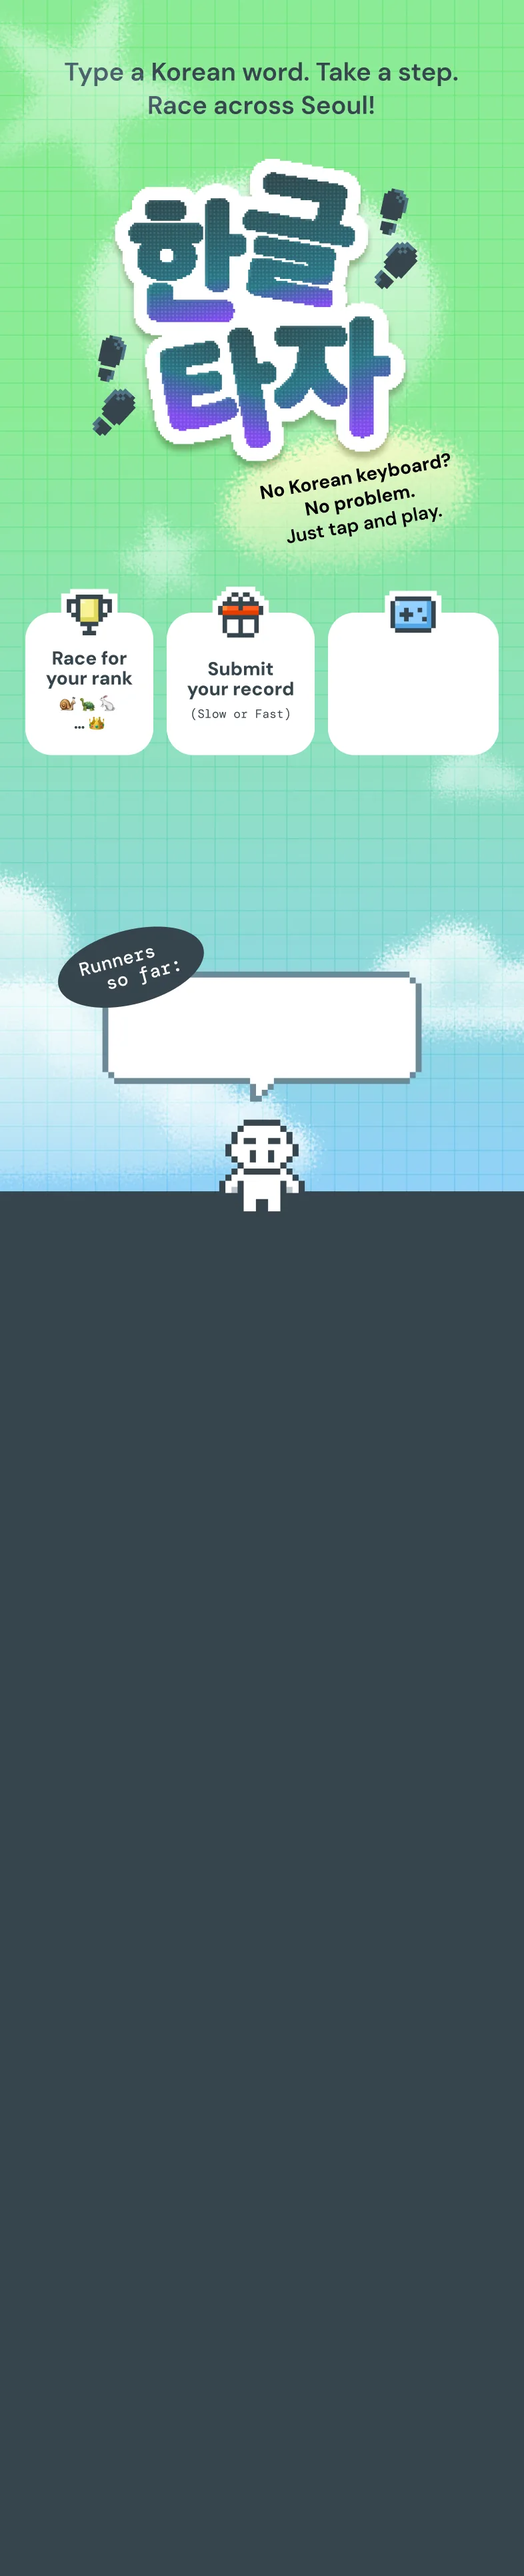
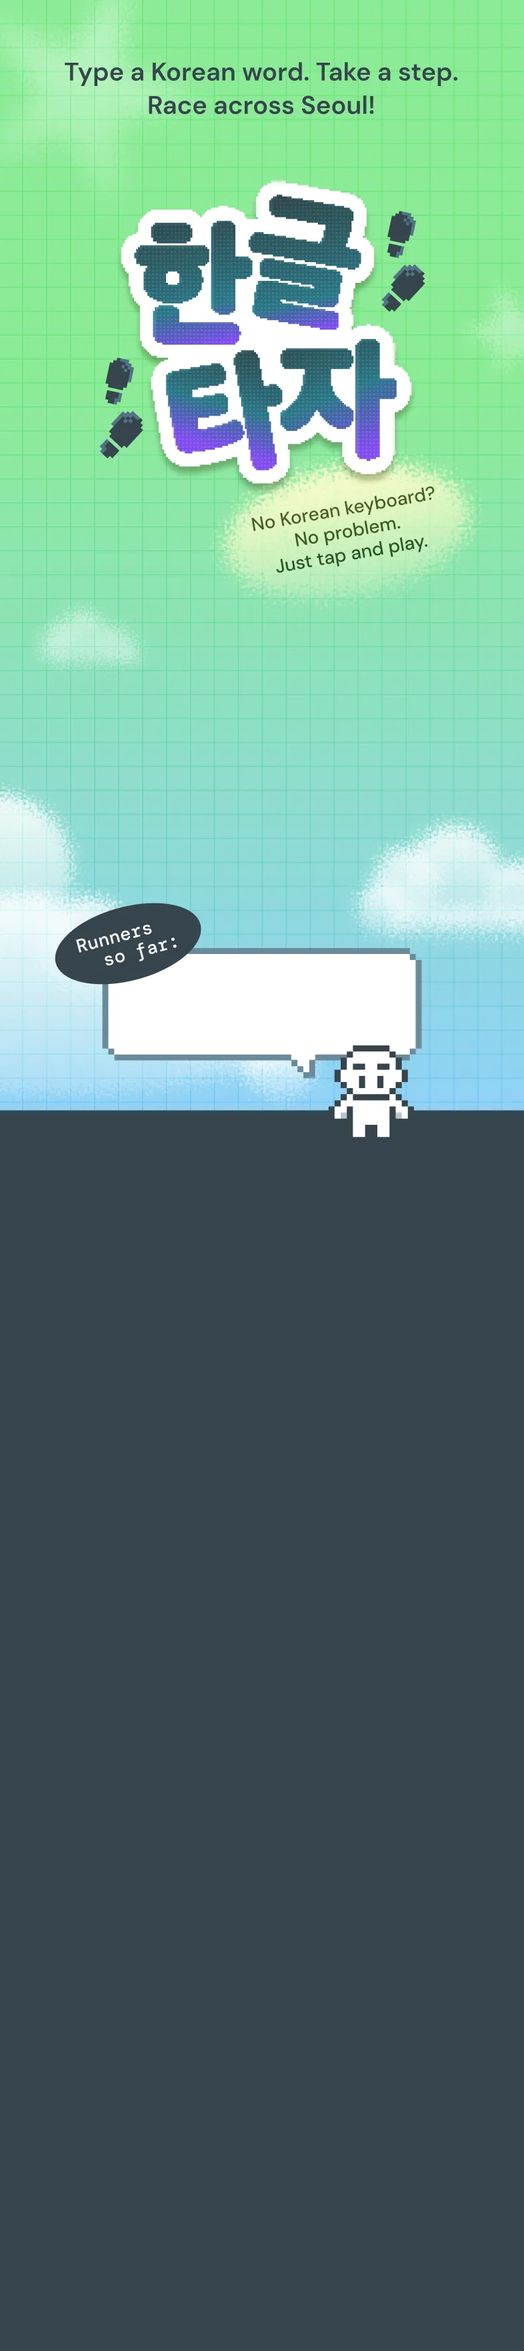
feat: 홈 화면을 새 이벤트 시안으로 (1220:24828)
배경 아트를 새로 받은 것으로 갈고, 그 위에 얹는 요소를 새 구성에 맞춘다.

- 히어로 높이 892.58 → 832.158. 특징 카드 3개가 빠지면서 시안이 짧아졌다.
- Play Now(250px) 자리에 Join Now(300px) + "See prizes & rules" 를 놓는다.
  둘 다 배경 아트에 없어 HTML 로 그린다.
- 참여인원 숫자를 새 위치(726.7)로 옮기고 시안의 자간(-4px)을 준다.
- 어두운 영역 맨 위에 "Hangeul Day Prize Draw / Oct 1 – Oct 11, 2026" 를 더한다.

아직 시안과 다른 부분이 있다 — 에셋이 없어 넣지 못했다:
- 히어로의 픽셀 타이틀과 선물 아이콘 2개
- 이벤트 제목 위 트로피 아이콘
- Q&A 카드 스타일(시안은 어두운 카드), 하단 TTMIK 푸터 전체

diff --git a/app/HomeScreen.tsx b/app/HomeScreen.tsx
@@ -1,16 +1,17 @@
 /* eslint-disable @next/next/no-img-element -- 시안 그대로의 고정 px 배경 아트라 최적화 파이프라인이 필요 없다. */
 import Link from 'next/link';
 
-// Figma "Home" (node 655:7590) 전체를 2x 로 export 한 배경 아트.
-// Play Now 버튼과 참여인원 숫자는 이 이미지에서 빠져 있어 아래에서 HTML 로 얹는다.
+// Figma "Home" (node 1220:24828) 을 2x 로 export 한 배경 아트.
+// 이벤트 블록(타이틀·Join Now·See prizes)과 참여인원 숫자는 이 이미지에서 빠져 있어
+// 아래에서 HTML 로 얹는다.
 const HOME_ART = '/home/Home.webp';
 
 // 시안 캔버스 크기. 아래 좌표들은 모두 이 캔버스 기준이다.
 const CANVAS_WIDTH = 393;
-const HERO_HEIGHT = 892.58;
+const HERO_HEIGHT = 832.158;
 
 // 시안의 "Runners so far" 수치. 실제 참가자 수를 붙이기 전까지의 표시값.
-const RUNNER_COUNT = '100,000';
+const RUNNER_COUNT = '123,456';
 
 /** 시안 배경 위에 얹는 인터랙티브 영역. */
 function Hero() {
@@ -19,22 +20,41 @@ function Hero() {
       {/* 헤드라인은 배경 아트에 그려져 있어 문서 구조용으로만 남긴다. */}
       <h1 className="sr-only">Type a Korean word. Take a step. Race across Seoul!</h1>
 
-      {/* 세 번째 카드 문구 — 배경 아트 export 에서 빠져 있어 여기서 그린다. */}
-      <p className="absolute left-[261px] top-[490.9px] w-[98px] text-center font-dmsans text-[14px] font-extrabold leading-[1.1] text-[#36454d]">
-        More records, more chances in the draw
-      </p>
+      {/* 이벤트 블록 — 배경 아트에는 하늘만 있고 여기부터는 전부 HTML 이다. */}
+      <div className="absolute left-[46.5px] top-[530.07px] flex w-[300px] flex-col items-center gap-[20px]">
+        <Link
+          href="/race"
+          className="flex h-[59px] w-full items-center justify-center rounded-[2px] border border-[#36454d] bg-[#f9f064] font-dmmono text-[25px] font-medium text-[#36454d] shadow-[inset_0px_-3px_0px_0px_rgba(0,0,0,0.2),inset_0px_3px_0px_0px_rgba(255,255,255,0.8)]"
+        >
+          Join Now
+        </Link>
+        <a
+          href="#prize-draw"
+          className="flex items-center gap-[9px] px-[2px] pb-[2px] font-dmsans text-[15px] font-semibold leading-[1.1] text-black opacity-60"
+        >
+          See prizes &amp; rules
+          <PixelArrowDown className="size-[11px] shrink-0" />
+        </a>
+      </div>
 
-      <Link
-        href="/race"
-        className="absolute left-1/2 top-[595.76px] flex h-[59px] w-[250px] -translate-x-1/2 items-center justify-center rounded-[2px] border border-[#36454d] bg-[#f9f064] font-dmmono text-[25px] font-medium text-[#36454d] shadow-[inset_0px_-3px_0px_0px_rgba(0,0,0,0.2),inset_0px_3px_0px_0px_rgba(255,255,255,0.8)]"
-      >
-        Play Now
-      </Link>
-
-      <p className="absolute left-1/2 top-[744px] -translate-x-1/2 whitespace-nowrap text-center font-silkscreen text-[40px] leading-[1.3] text-[#36454d]">
+      <p className="absolute left-1/2 top-[726.7px] -translate-x-1/2 whitespace-nowrap text-center font-silkscreen text-[40px] leading-[1.3] tracking-[-4px] text-[#36454d]">
         {RUNNER_COUNT}
       </p>
     </section>
+  );
+}
+
+/** 이벤트 안내 — Q&A 위에 놓이는 제목과 기간. */
+function PrizeDrawHeading() {
+  return (
+    <div id="prize-draw" className="flex scroll-mt-4 flex-col items-center gap-[20px] text-center">
+      <p className="font-dmsans text-[24.85px] font-extrabold leading-[1.5] text-white">
+        Hangeul Day Prize Draw
+      </p>
+      <p className="font-dmsans text-[22px] font-medium leading-[1.5] text-[#f9f064]">
+        Oct 1 – Oct 11, 2026
+      </p>
+    </div>
   );
 }
 
@@ -105,8 +125,7 @@ const FAQ = [
 /** 하단 Q&A — 시안은 전부 펼친 상태. details 로 접고 펼 수 있게 한다. */
 function Faq() {
   return (
-    <section className="relative pb-[107.5px] pt-[83.92px]">
-      <div className="mx-auto flex w-[350px] max-w-[calc(100%-32px)] flex-col gap-[22px]">
+      <div className="flex flex-col gap-[22px]">
         {FAQ.map(({ question, answer }) => (
           <details key={question} open className="group border-t border-white/30 pt-[12px]">
             <summary className="flex cursor-pointer list-none items-center gap-[10px] [&::-webkit-details-marker]:hidden">
@@ -118,6 +137,17 @@ function Faq() {
             </div>
           </details>
         ))}
+      </div>
+  );
+}
+
+/** 히어로 아래 어두운 영역 — 이벤트 제목과 Q&A. */
+function PrizeSection() {
+  return (
+    <section className="relative pb-[107.5px] pt-[72.88px]">
+      <div className="mx-auto flex w-[350px] max-w-[calc(100%-32px)] flex-col gap-[40px]">
+        <PrizeDrawHeading />
+        <Faq />
       </div>
     </section>
   );
@@ -141,7 +171,7 @@ export function HomeScreen() {
         style={{ width: CANVAS_WIDTH }}
       />
       <Hero />
-      <Faq />
+      <PrizeSection />
     </main>
   );
 }
